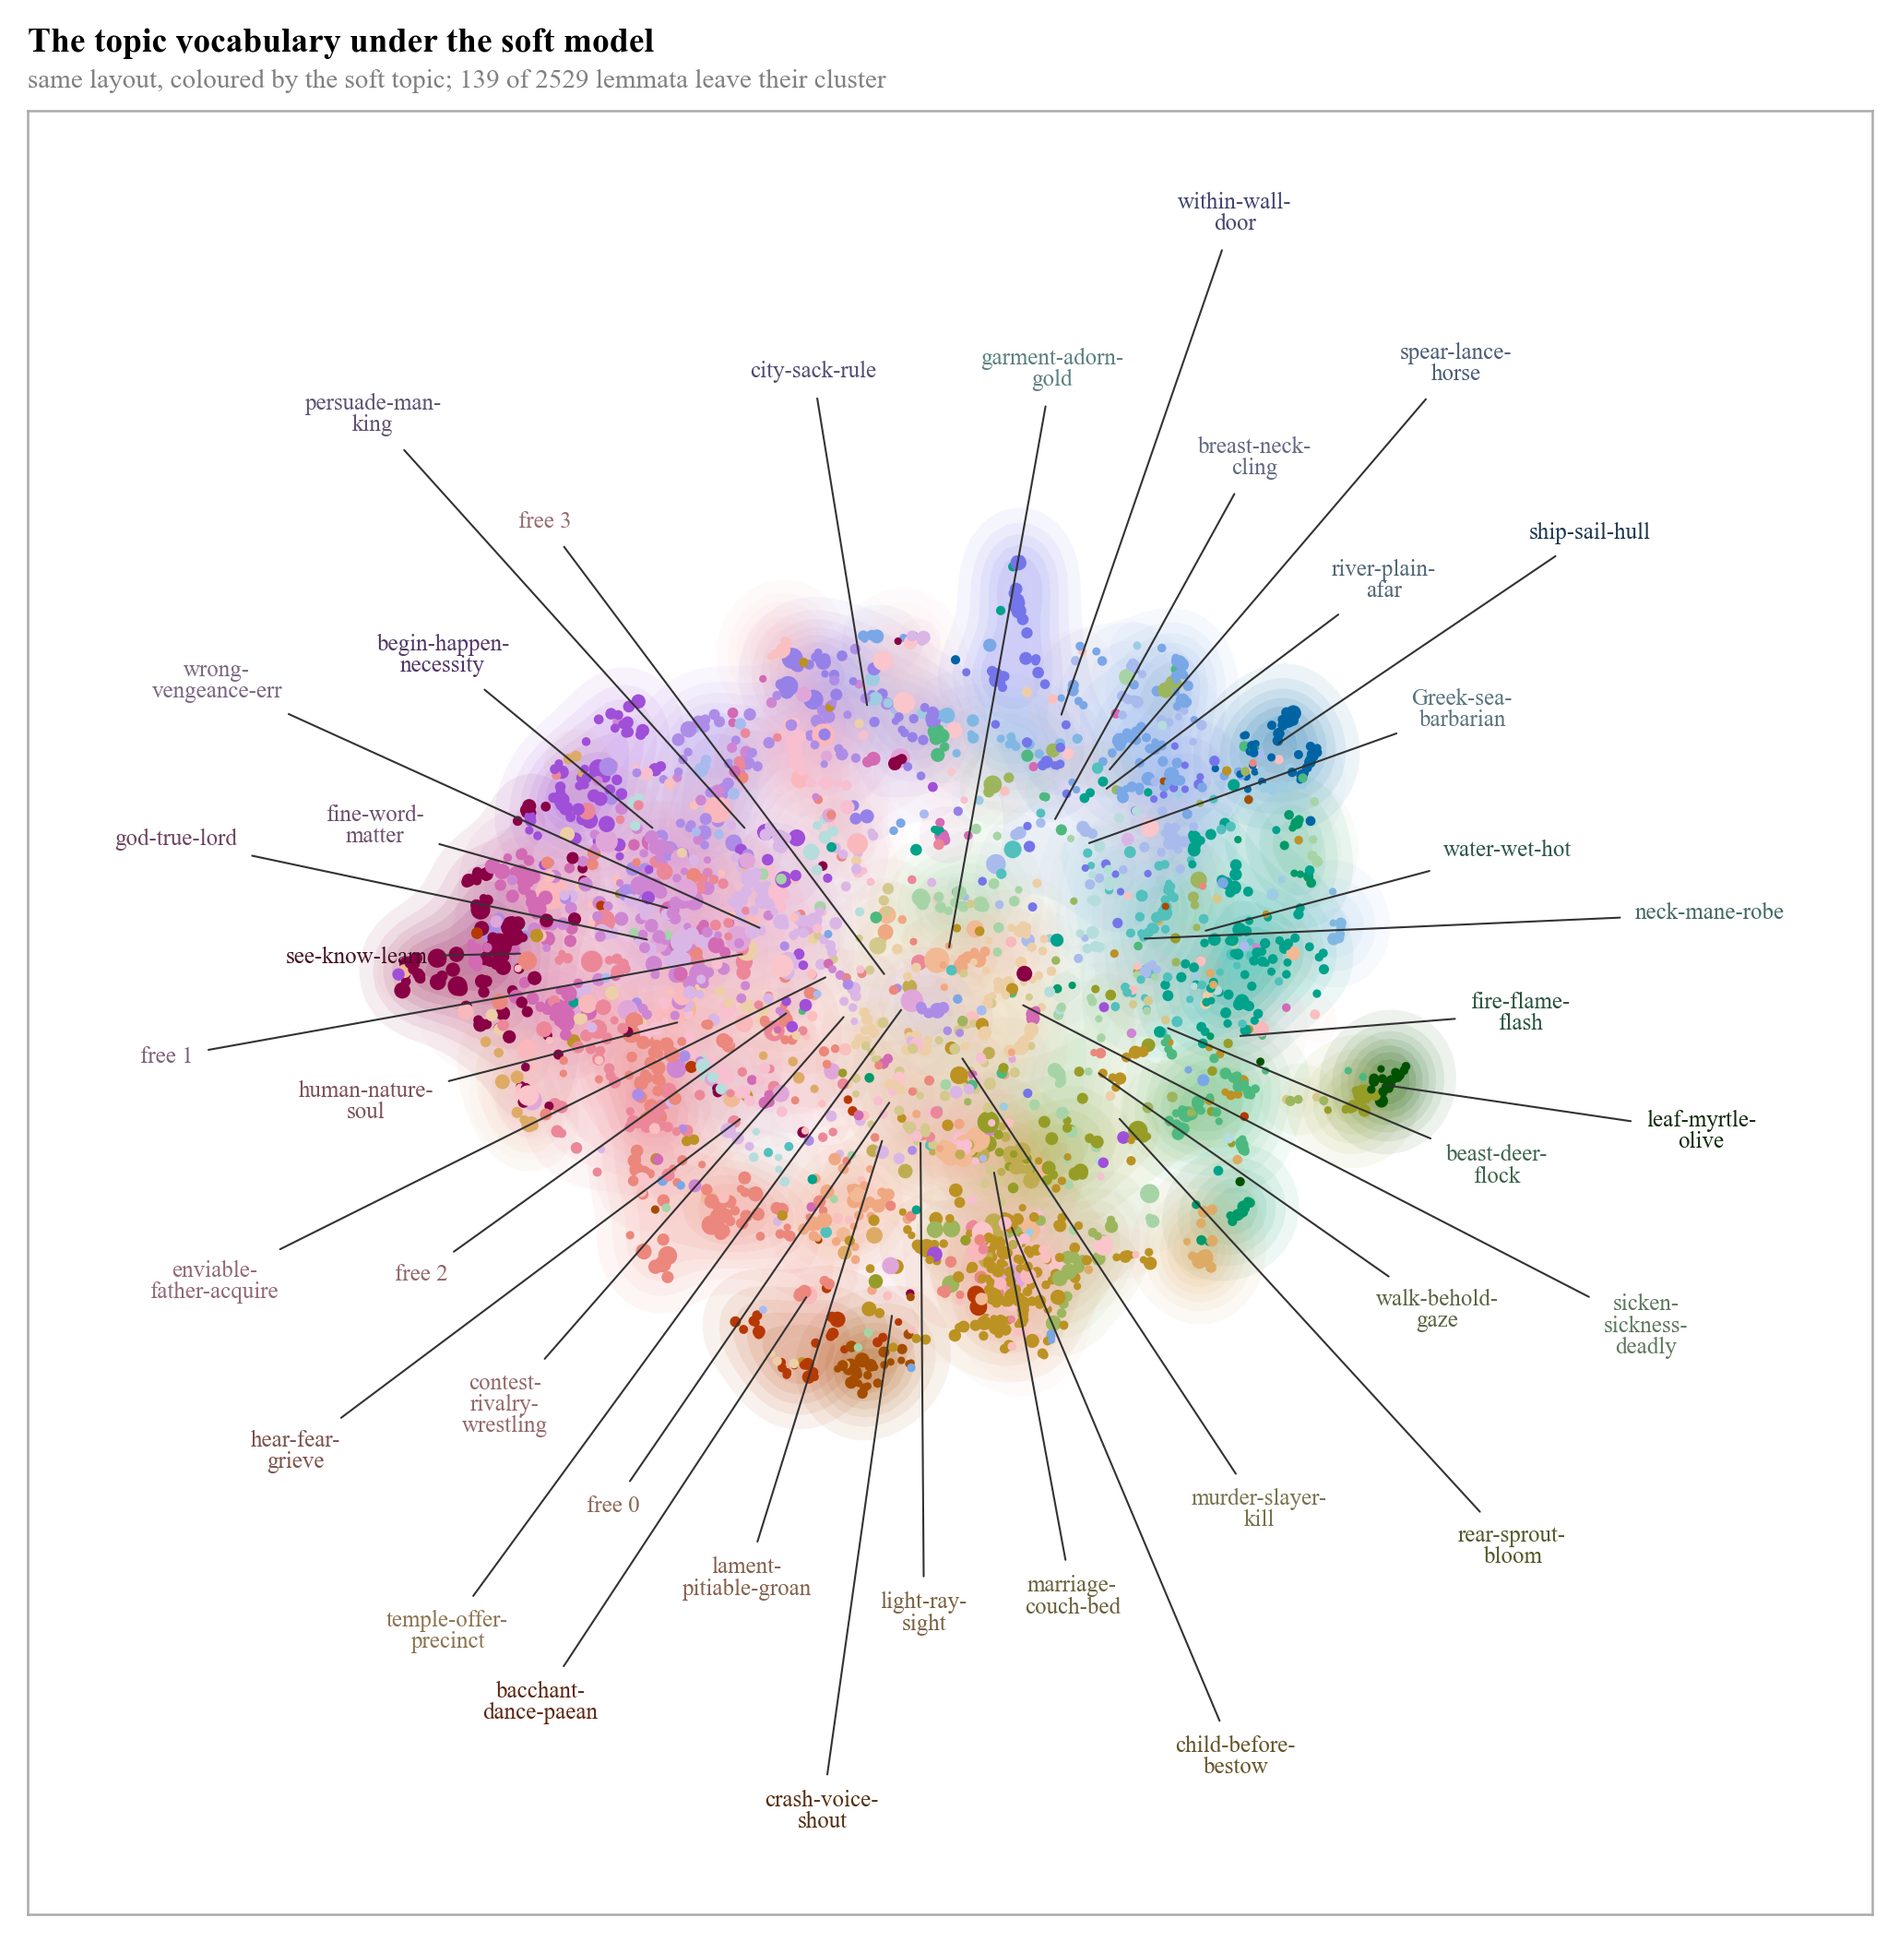
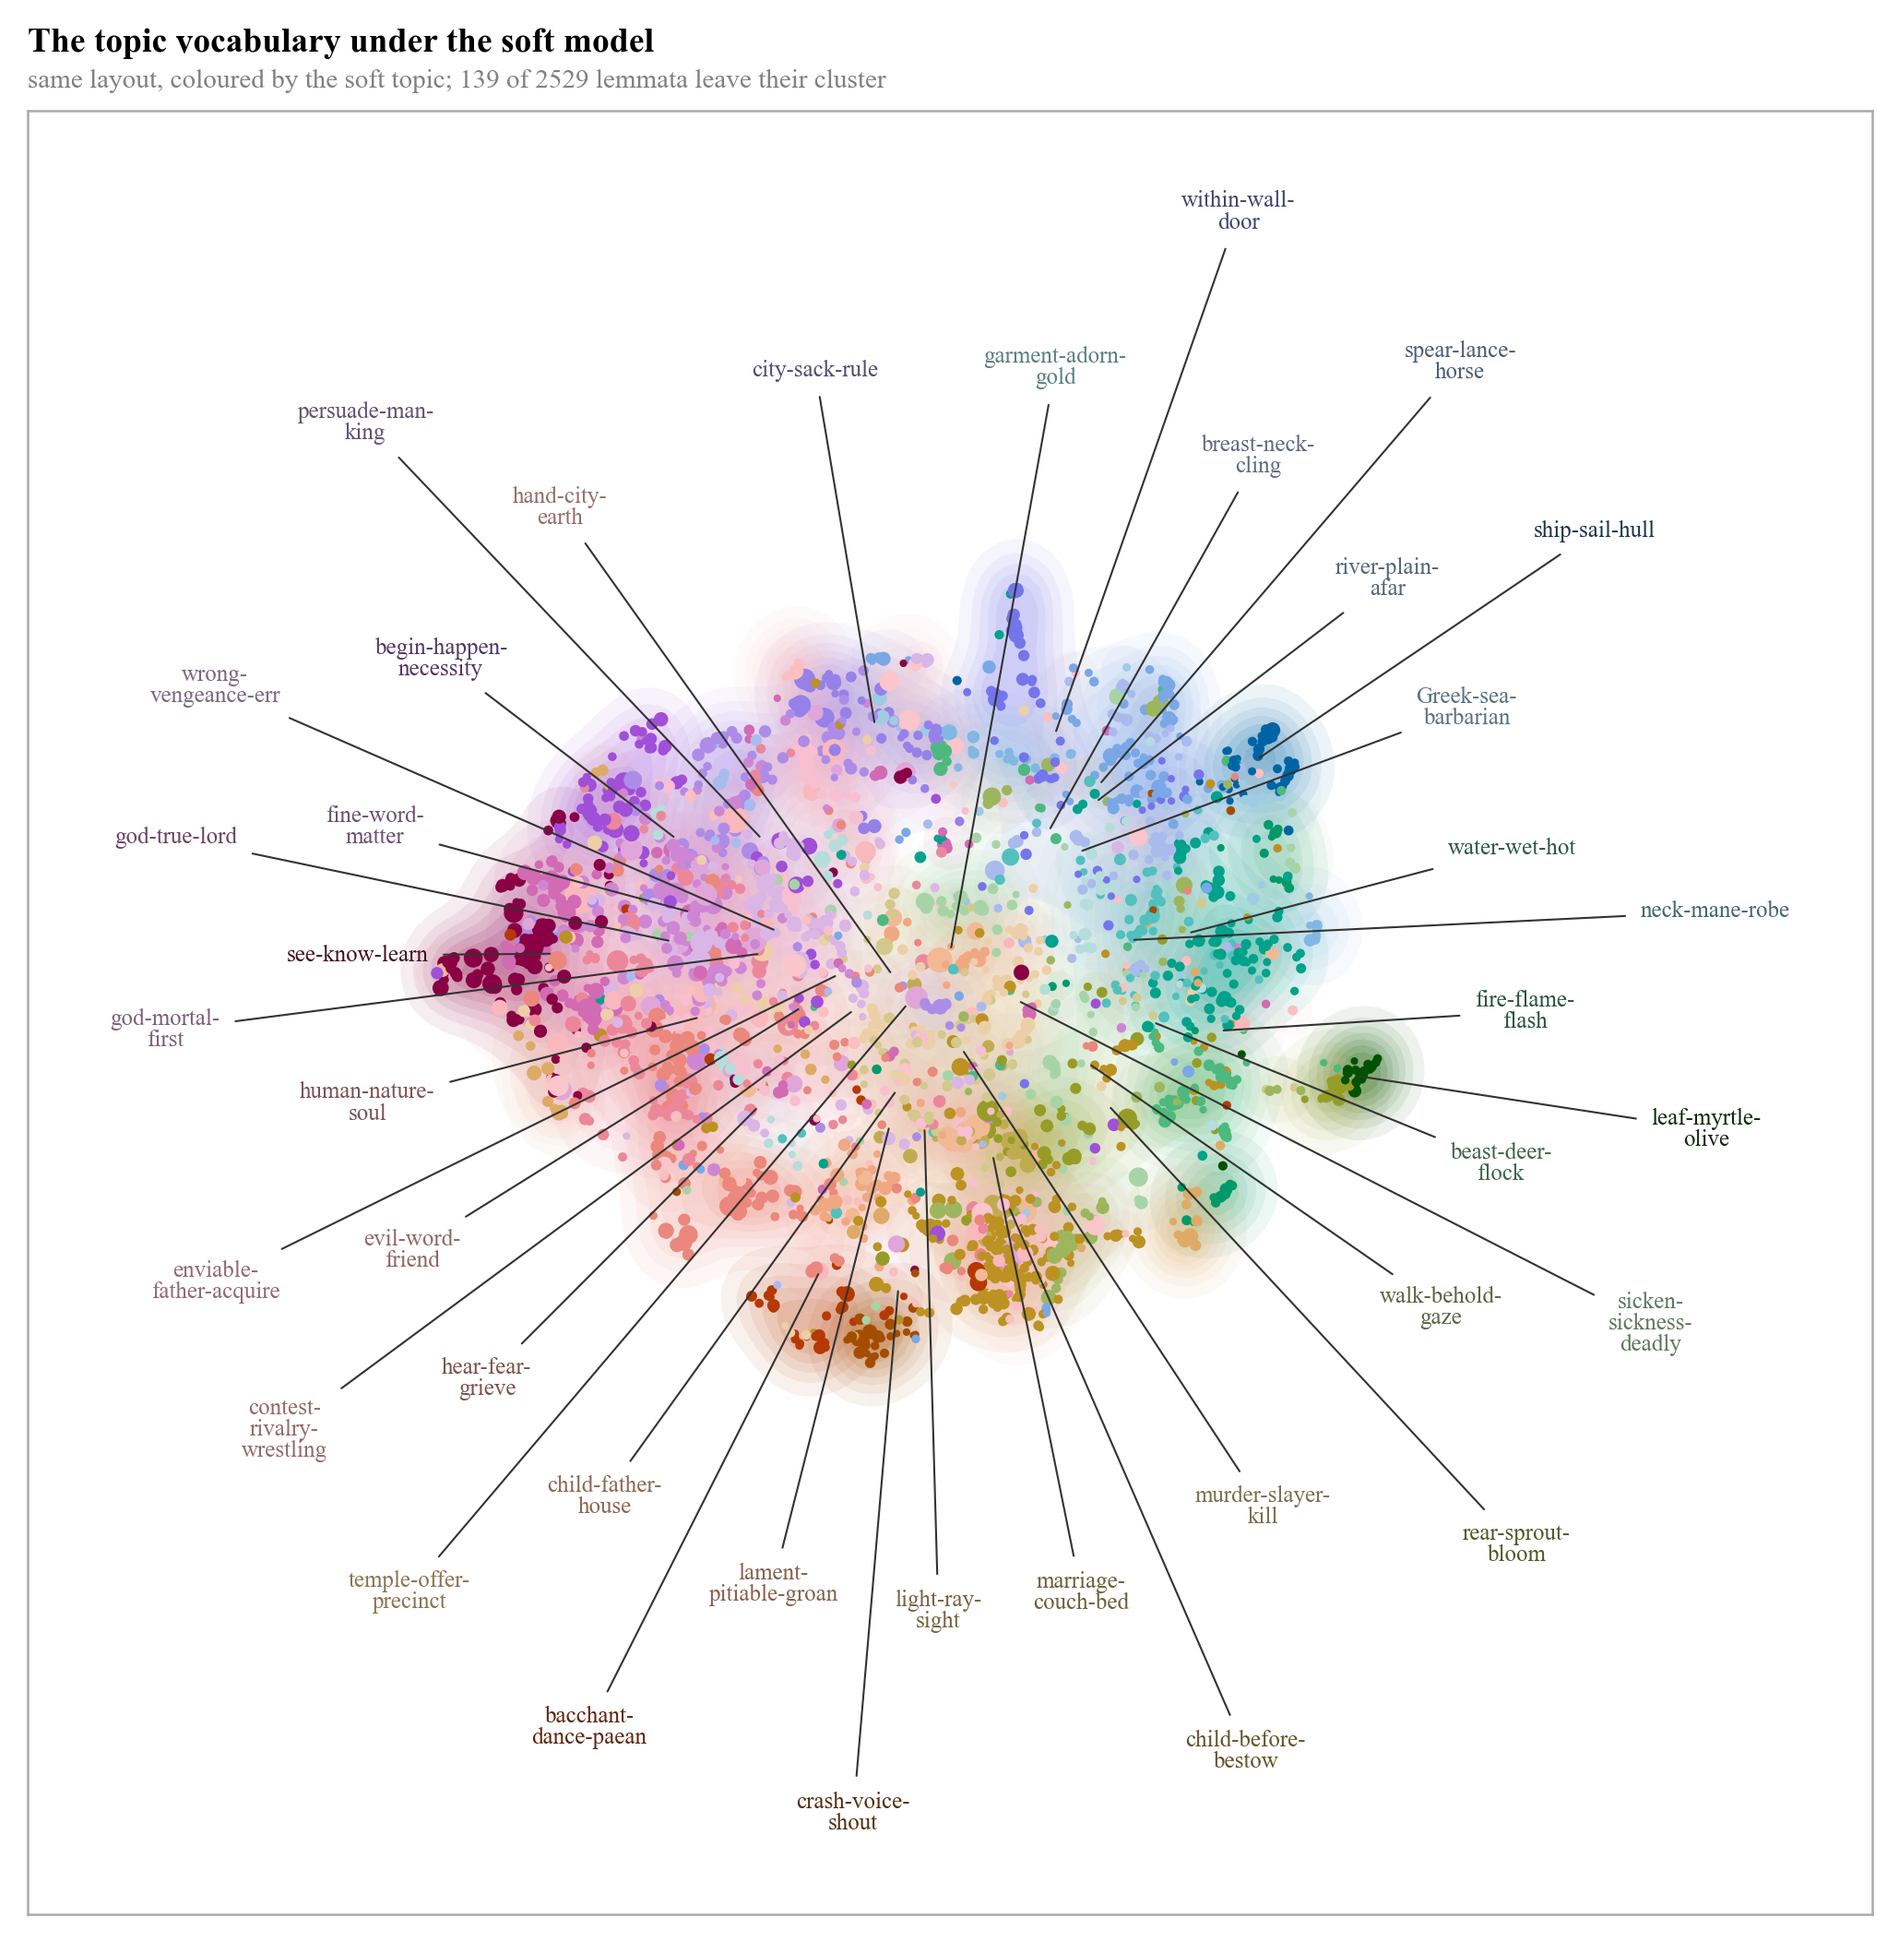
Soft model: name the free topics by the glosses of their three top lemmata
child-father-house, god-mortal-first, evil-word-friend, hand-city-earth
replace "free 0..3" in the script, the run's files, the figures and the
draws on the dataset.

Claude-Session: https://claude.ai/code/session_01KHbh4th1Ts9ASiaGg39JgA

diff --git a/scripts/soft_model.py b/scripts/soft_model.py
@@ -35,7 +35,7 @@ P(theta_k^doc > theta_k^window).
 
 Usage (a GH200 node for its cores; CMDSTAN must point at the aarch64 CmdStan):
   python scripts/soft_model.py --data data --out results/soft
-Writes phi.json (topics) and phi_matrix.csv.gz (K x V, read by the report and
+Writes phi.json (topics; a free topic is named by the glosses of its three top lemmata) and phi_matrix.csv.gz (K x V, read by the report and
 the lemma map), diagnostics.csv.gz (one row per document), check_documents.json
 (two documents with their posterior summary, refitted with rstan in the
 report), profiles.csv (the mean profiles of the walk and of Sophocles, with the
@@ -104,6 +104,14 @@ def load(data_dir):
 
 
 # --- the exact posterior of one document: NUTS on lda_given_phi.stan, in a pool of CmdStan processes ---
+# English glosses for naming the free topics (extend when a new lemma turns up)
+GLOSS = {"παῖς": "child", "πατήρ": "father", "δόμος": "house", "θεός": "god", "βροτός": "mortal", "πρῶτος": "first",
+         "κακός": "evil", "λόγος": "word", "φίλος": "friend", "χείρ": "hand", "πόλις": "city", "χθών": "earth",
+         "θνῄσκω": "die", "γυνή": "woman", "τέκνον": "child", "μήτηρ": "mother", "κτείνω": "kill", "οἶκος": "home",
+         "σοφός": "wise", "χάρις": "grace", "πείθω": "persuade", "ἄγω": "lead", "δίκη": "justice", "ὄμμα": "eye",
+         "ἀνήρ": "man", "καλός": "fine", "δράω": "do", "ξένος": "stranger", "τύχη": "fortune", "ὁράω": "see",
+         "γῆ": "land", "νεκρός": "corpse", "στρατός": "army", "δόρυ": "spear", "πούς": "foot"}
+
 WORKER = {}
 
 
@@ -168,7 +176,7 @@ def main():
     import tomotopy as tp
     mass = Counter(cluster[w] for d in tragic for w in d if cluster[w])            # one seeded topic per cluster, in order of tragic mass
     seeds = {c: [vocab[i] for i in range(V) if cluster[i] == c] for c, _ in mass.most_common()}
-    H = len(seeds); K = H + a.free; names = list(seeds) + [f"free {j}" for j in range(a.free)]
+    H = len(seeds); K = H + a.free; names = list(seeds) + [f"free {j}" for j in range(a.free)]   # renamed below
     print(f"{H} seeded topics (the clusters) + {a.free} free", flush=True)
     lda = tp.LDAModel(tw=tp.TermWeight.ONE, k=K, alpha=0.1, eta=0.01, seed=a.seed)
     for d in tragic: lda.add_doc([vocab[i] for i in d])
@@ -187,6 +195,14 @@ def main():
         for w, i in wid.items():
             if w in order: phi[k, i] = d[order[w]]
     phi /= phi.sum(1, keepdims=True); logphi = np.log(phi).T                               # (V, K)
+    # a free topic is named by the English glosses of its three most probable
+    # lemmata, as a seeded topic is named by its cluster's label lemmata
+    for j in range(a.free):
+        words = [w for w, _ in lda.get_topic_words(H + j, top_n=3)]
+        missing = [w for w in words if w not in GLOSS]
+        if missing: print(f"  no English gloss for {' '.join(missing)}: add it to GLOSS in soft_model.py", flush=True)
+        names[H + j] = "-".join(GLOSS.get(w, w) for w in words)
+    assert len(set(names)) == K, "two topics got the same name"
     with gzip.open(f"{a.out}/phi_matrix.csv.gz", "wt", encoding="utf-8") as f:          # K rows, one column per lemma
         f.write("topic," + ",".join(vocab) + "\n")
         for k in range(K): f.write(names[k] + "," + ",".join(f"{v:.6g}" for v in phi[k]) + "\n")
